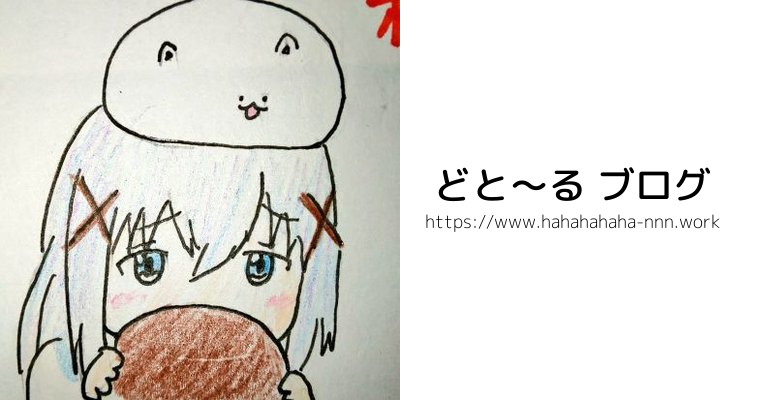
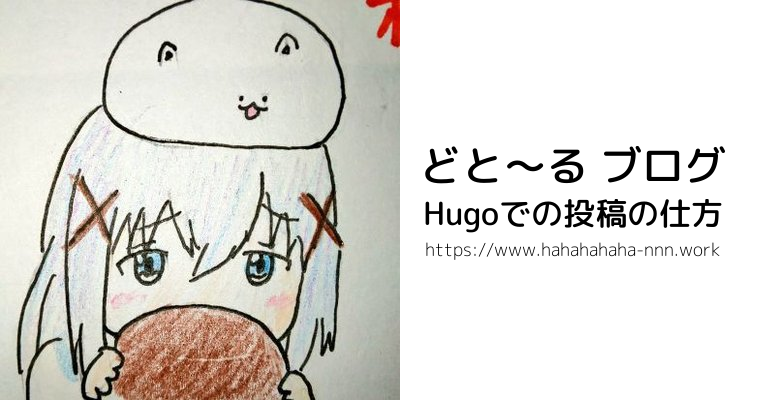
#32 titleの取得ができるようになった

Changed region(s): [[0.5419, 0.36, 0.9634, 0.66]]

diff --git a/python/make-card-pic.py b/python/make-card-pic.py
@@ -13,6 +13,17 @@ from PIL import Image, ImageDraw, ImageFont
 height = 400
 horizontal = 764
 
+#記事タイトル取得
+def get_title(file_path):
+    print("Open file...",file_path)
+    
+    f = open(file_path, 'r',encoding="utf-8") #File Open（文字コード指定）
+    datalist = f.readlines()
+    text=datalist[3] #自分の環境では3行目にtitleが存在するため
+    title=text.split('"')
+    print(title)
+    return title[1]
+
 #文字未入れ状態の画像作成
 def make_bace_image(logo_path,img_path):
     tmp = Image.new('RGB', (horizontal, height), (0xFF, 0xFF, 0xFF)) # dummy for get text_size
@@ -33,6 +44,9 @@ def make_image(font_path, img_path,text,x=0.0 ,y=0.0, font_size=32, font_color="
     img_d.text((x-(text_size[0]/2),y-(text_size[1]/2)), text, fill=font_color, font=font)
     img.save(img_path)
 
+title=get_title(".\content\post\how_to_hugo_post.md")
+
 make_bace_image(".\static\img\logo.jpg", ".\python\card.png")
-make_image(".\python\MPLUSRounded1c-Medium.ttf" ,".\python\card.png", "どと～る ブログ",horizontal*0.75, height*0.45,38)
-make_image(".\python\MPLUSRounded1c-Light.ttf" , ".\python\card.png", "https://www.hahahahaha-nnn.work",horizontal*0.75, height*0.55,18)
+make_image(".\python\MPLUSRounded1c-Medium.ttf" ,".\python\card.png", "どと～る ブログ",horizontal*0.75, height*0.4,42)
+make_image(".\python\MPLUSRounded1c-Medium.ttf" ,".\python\card.png", title,horizontal*0.75, height*0.53,32)
+make_image(".\python\MPLUSRounded1c-Light.ttf" , ".\python\card.png", "https://www.hahahahaha-nnn.work",horizontal*0.75, height*0.62,18)
